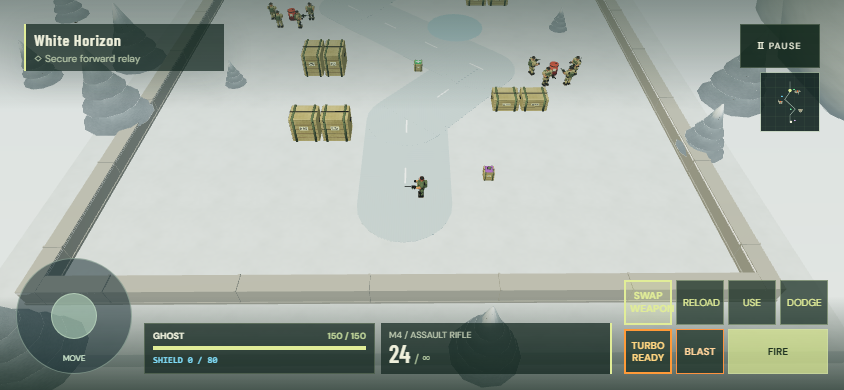
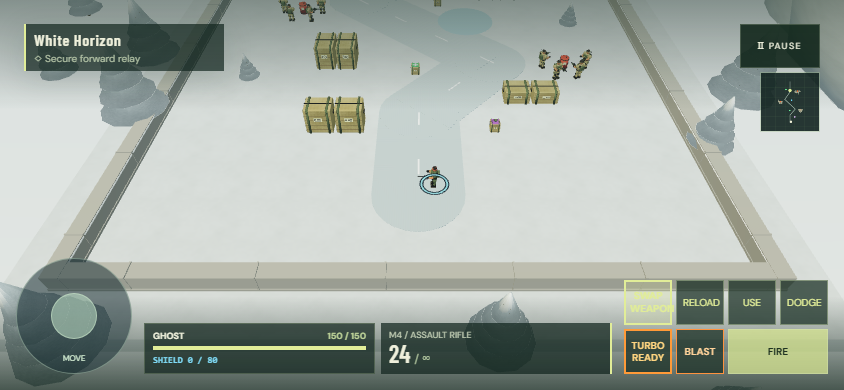
Stabilize follow camera with shared dead-zone anchor and mark the player

diff --git a/src/world.ts b/src/world.ts
@@ -1,3 +1,4 @@
+import { followAxis } from "./camera-follow.mjs";
 import { ActorBatches } from "./batching";
 import { WORLD_BOUNDS } from "./campaign.mjs";
 import { sampleRoute, routeLength } from "./routes.mjs";
@@ -194,6 +195,16 @@ export class World {
   private roadMap = surface("road");
   private waterMap = surface("water");
   private wind = { value: 0 };
+  private followTarget = new T.Vector3();
+  private renderTime: number | undefined;
+  private wasMenu = true;
+  playerIndicator = new T.Group();
+  resetCamera(focus: T.Vector3) {
+    this.followTarget.set(focus.x, 0, focus.z);
+    this.camera.position.set(focus.x, 27, focus.z + 25);
+    this.camera.lookAt(this.followTarget);
+    this.wasMenu = false;
+  }
   camera = new T.PerspectiveCamera(43, 1, 0.1, 230);
   renderer: T.WebGLRenderer;
   terrain = new T.Group();
@@ -253,6 +264,28 @@ export class World {
     );
     this.exit.rotation.x = -Math.PI / 2;
     this.scene.add(this.marker, this.exit);
+    for (const [inner, outer, color] of [
+      [0.83, 1.13, 0x10232c],
+      [0.91, 1.05, 0x38ecff],
+    ]) {
+      const ring = new T.Mesh(
+        new T.RingGeometry(inner, outer, 40),
+        new T.MeshBasicMaterial({
+          color,
+          side: T.DoubleSide,
+          depthTest: false,
+          depthWrite: false,
+          transparent: true,
+          opacity: 0.95,
+        }),
+      );
+      ring.rotation.x = -Math.PI / 2;
+      ring.renderOrder = color === 0x38ecff ? 102 : 101;
+      this.playerIndicator.add(ring);
+    }
+    this.playerIndicator.name = "player-identity-ring";
+    this.playerIndicator.visible = false;
+    this.scene.add(this.playerIndicator);
     this.camera.position.set(35, 42, 48);
     this.camera.lookAt(0, 0, 0);
     this.resize();
@@ -754,7 +787,13 @@ export class World {
     this.camera.updateProjectionMatrix();
     this.renderer.setSize(innerWidth, innerHeight);
   }
-  render(time: number, focus: T.Vector3, menu: boolean, reduced: boolean) {
+  render(
+    time: number,
+    focus: T.Vector3,
+    menu: boolean,
+    reduced: boolean,
+    alive = true,
+  ) {
     for (const actor of this.actors.children)
       if (actor.userData.lowRange)
         actor.visible =
@@ -765,19 +804,50 @@ export class World {
       reduced || this.lowDetail ? 0 : time * 0.012,
       reduced ? 0 : time * 0.006,
     );
+    const dt =
+      this.renderTime === undefined
+        ? 1 / 60
+        : Math.max(0, time - this.renderTime);
+    this.renderTime = time;
     const menuFocus = sampleRoute(MISSIONS[this.missionIndex].route, 0.18);
-    const target = menu ? new T.Vector3(menuFocus.x, 0, menuFocus.z) : focus;
-    const desired = menu
-      ? new T.Vector3(
-          target.x + 34 + (reduced ? 0 : Math.sin(time * 0.07) * 2),
-          43,
-          target.z + 50,
-        )
-      : new T.Vector3(focus.x, focus.y + 27, focus.z + 25);
-    this.camera.position.lerp(desired, menu ? 0.025 : 0.09);
-    this.camera.lookAt(target);
+    if (!menu && this.wasMenu) this.resetCamera(focus);
+    if (!menu) {
+      // Narrow portrait screens need a smaller horizontal dead zone.
+      const horizontal = Math.min(4.5, Math.max(1.8, this.camera.aspect * 4));
+      this.followTarget.x = followAxis(
+        this.followTarget.x,
+        focus.x,
+        horizontal,
+        dt,
+      );
+      this.followTarget.z = followAxis(this.followTarget.z, focus.z, 3.5, dt);
+      this.camera.position.set(
+        this.followTarget.x,
+        27,
+        this.followTarget.z + 25,
+      );
+      this.camera.lookAt(this.followTarget);
+    } else {
+      const target = new T.Vector3(menuFocus.x, 0, menuFocus.z);
+      const desired = new T.Vector3(
+        target.x + 34 + (reduced ? 0 : Math.sin(time * 0.07) * 2),
+        43,
+        target.z + 50,
+      );
+      this.camera.position.lerp(
+        desired,
+        1 - Math.exp(-1.5 * Math.min(dt, 0.1)),
+      );
+      this.camera.lookAt(target);
+    }
+    this.wasMenu = menu;
+    const target = menu
+      ? new T.Vector3(menuFocus.x, 0, menuFocus.z)
+      : this.followTarget;
     this.sun.position.set(target.x - 20, 35, target.z + 12);
     this.sun.target.position.copy(target);
+    this.playerIndicator.position.set(focus.x, 0.12, focus.z);
+    this.playerIndicator.visible = !menu && alive;
     this.sun.target.updateMatrixWorld();
     this.marker.rotation.z = time * 0.6;
     this.marker.scale.setScalar(1 + Math.sin(time * 2) * 0.05);

diff --git a/tests/camera.spec.ts b/tests/camera.spec.ts
@@ -1,0 +1,47 @@
+import { test, expect } from "@playwright/test";
+test("camera holds small movement, tracks without rotating, and identifies player across missions", async ({
+  page,
+}) => {
+  await page.goto("http://127.0.0.1:5177");
+  await expect(page.locator("#deploy")).toBeEnabled();
+  await page.locator("#deploy").click();
+  const result = await page.evaluate(() => {
+    const { game: g, world: w } = (window as any).__nightfall;
+    g.phase = "won";
+    const origin = g.pos.clone();
+    w.resetCamera(origin);
+    let time = performance.now() / 1000;
+    w.render(time, origin, false, true);
+    const initial = w.camera.position.clone(),
+      rotation = w.camera.quaternion.clone();
+    const small = origin.clone().add({ x: 1, y: 0, z: 1 });
+    for (let i = 0; i < 10; i++) w.render((time += 1 / 60), small, false, true);
+    const stayed = w.camera.position.distanceTo(initial);
+    const far = origin.clone().add({ x: 10, y: 0, z: 12 });
+    w.render((time += 1 / 60), far, false, true);
+    const first = w.camera.position.distanceTo(initial);
+    for (let i = 0; i < 30; i++) w.render((time += 1 / 60), far, false, true);
+    const angle = rotation.angleTo(w.camera.quaternion);
+    const marker = w.playerIndicator;
+    const tracked =
+      marker.position.x === far.x &&
+      marker.position.z === far.z &&
+      marker.visible;
+    w.render((time += 1 / 60), far, false, true, false);
+    const hiddenOnDeath = !marker.visible;
+    g.start(3, { power: 0, armor: 0, mobility: 0 }, "normal");
+    g.phase = "won";
+    const centered =
+      Math.abs(w.camera.position.x - g.pos.x) < 0.001 &&
+      Math.abs(w.camera.position.z - g.pos.z - 25) < 0.001;
+    return { stayed, first, angle, tracked, hiddenOnDeath, centered };
+  });
+  expect(result.stayed).toBe(0);
+  expect(result.first).toBeGreaterThan(0);
+  expect(result.first).toBeLessThan(2);
+  expect(result.angle).toBeLessThan(0.000001);
+  expect(result.tracked).toBe(true);
+  expect(result.hiddenOnDeath).toBe(true);
+  expect(result.centered).toBe(true);
+  await page.screenshot({ path: "docs/player-camera-desktop.png" });
+});

diff --git a/src/game.ts b/src/game.ts
@@ -489,8 +489,7 @@ export class Game {
     );
     this.refreshCoverGrid();
     this.player = model("commando", mission.start.x, mission.start.z);
-    this.world.camera.position.set(mission.start.x, 27, mission.start.z + 25);
-    this.world.camera.lookAt(this.player.position);
+    this.world.resetCamera(this.player.position);
     this.playerMotion = new CharacterMotion(this.player);
     this.deathClock = 0;
     this.world.actors.add(this.player);

diff --git a/src/main.ts b/src/main.ts
@@ -783,7 +783,13 @@ function frame(now: number) {
     if (mode === "result") game.updatePresentation(frameDelta);
   }
   $("#crosshair").hidden = mode !== "playing" || !pointerSeen || input.assist;
-  world.render(now / 1000, game.pos, mode === "menu", prefs.reduced);
+  world.render(
+    now / 1000,
+    game.pos,
+    mode === "menu",
+    prefs.reduced,
+    game.hp > 0,
+  );
 }
 async function init() {
   try {

diff --git a/docs/CAMERA_AND_PLAYER_IDENTITY.md b/docs/CAMERA_AND_PLAYER_IDENTITY.md
@@ -1,0 +1,9 @@
+# Stable camera and player identity
+
+Tank_game_3D/src/three/world.ts smooths one target with elapsed-time exponential easing, then derives both camera position and aim from it. RAMBO previously eased camera position by a fixed 0.09 per rendered frame while aiming immediately at the raw player position. This changed pitch/yaw during movement and made response depend on rendering frequency. Normal scene redraw is not itself the cause.
+
+RAMBO now uses one ground-plane anchor for position and aim, keeping a constant gameplay angle. A radial-axis dead zone keeps the view stationary for small movements: 3.5 world units vertically along the ground and 1.8–4.5 horizontally depending on aspect ratio. Outside it, exponential easing moves only the excess distance. The camera ignores animation/sinking height. Mission start resets the anchor, and lighting follows the same anchor. No terrain regeneration is introduced.
+
+A reusable cyan ring with a dark outline marks the player, including occupied vehicles. It uses two small meshes outside the actor batching system, does not pulse, is visible against bright and dark terrain, and hides in the menu or after death. It does not change enemy materials or collision.
+
+Validation: 42 unit tests, including dead-zone stability/no overshoot and equal smoothing at 30/144 Hz; browser checks for stationary small movement, fixed camera orientation during follow, marker tracking/death lifecycle and mission reset, plus existing mobile multitouch and desktop switching checks. This corrects camera-induced wobble; it is not a guarantee against frame drops on every device.
